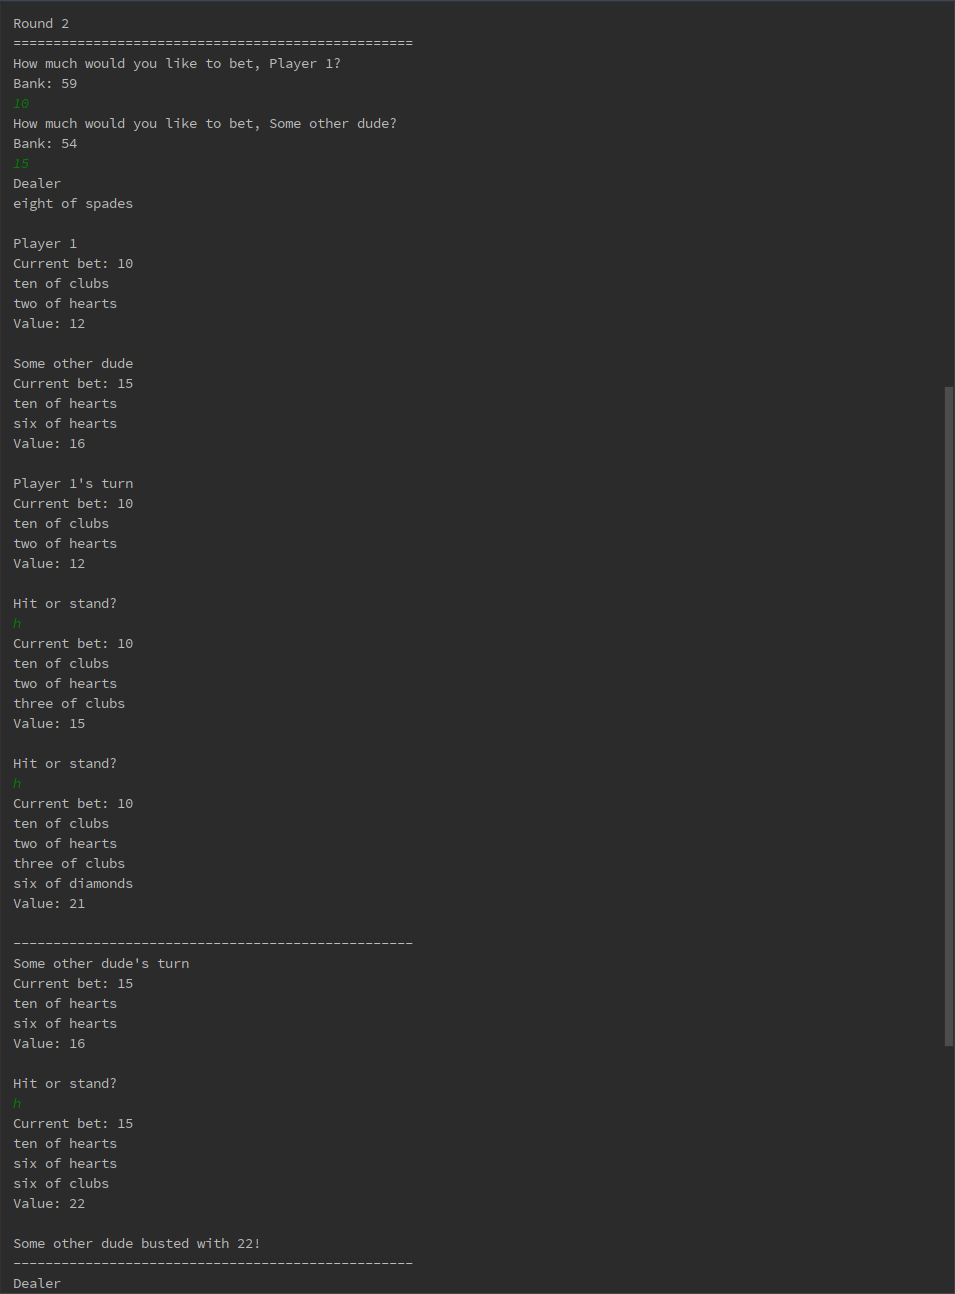
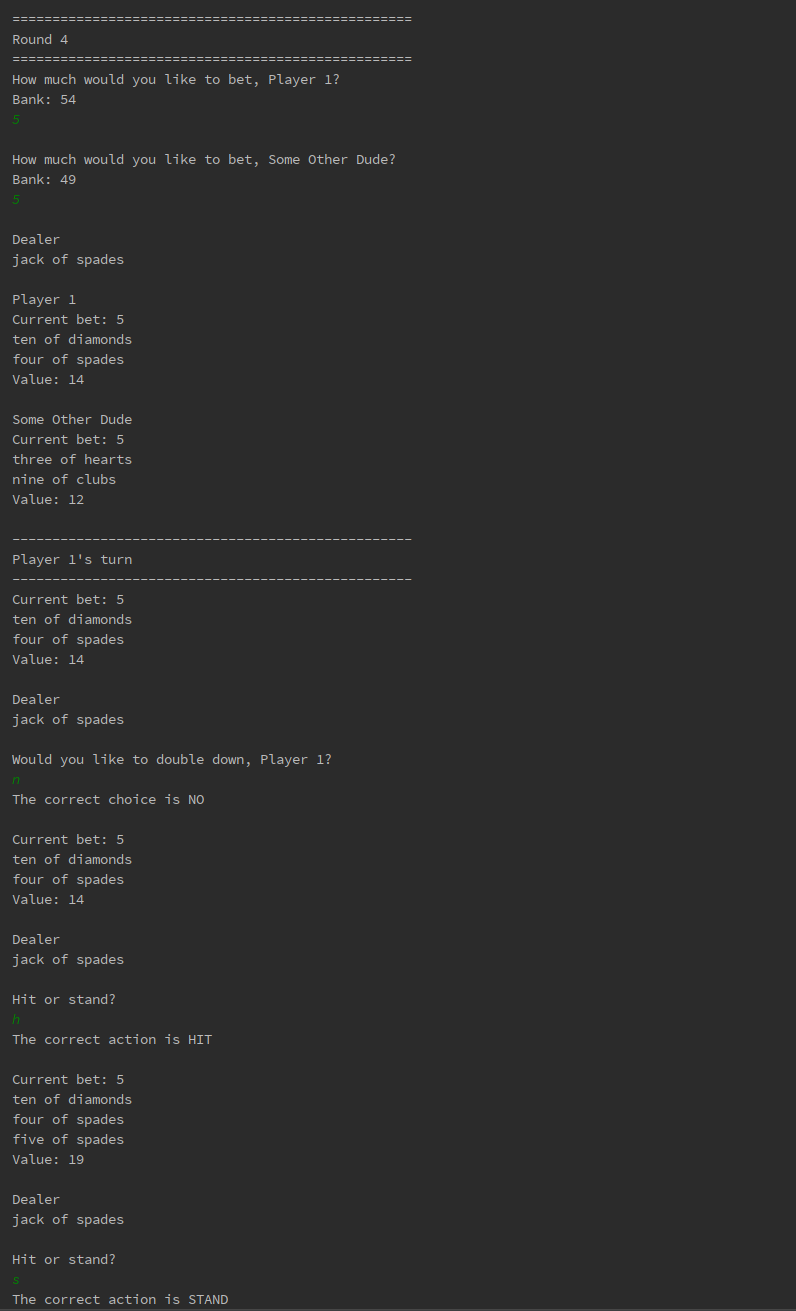
Simplify trainer; tidy up

diff --git a/src/main/java/com/refinery408/blackjack/Game.java b/src/main/java/com/refinery408/blackjack/Game.java
@@ -30,6 +30,7 @@ public class Game {
 
     private void nextRound() {
         this.round++;
+        log.info("==================================================");
         log.info("Round " + this.round);
         log.info("==================================================");
         this.checkShuffle();
@@ -43,6 +44,7 @@ public class Game {
             return;
         }
         this.checkPlayerBlackjack();
+        log.info("--------------------------------------------------");
         this.players
                 .stream()
                 .filter(Player::isActive)
@@ -151,6 +153,8 @@ public class Game {
 
     private void playHand(Player p, Hand h) {
         h.printHand();
+        this.dealer.printDealer();
+
         if (h.isBust()) {
             log.info(String.format("%s busted with %d!", p.getName(), h.lowValue()));
             h.setActive(false);
@@ -164,7 +168,7 @@ public class Game {
             this.handleSplitAce(p, h);
             return;
         }
-        if (h.canSplit() && p.getMoney() >= h.getCurrentBet()) {
+        if (h.canSplit(p.getMoney())) {
             if (this.split(p, h)) {
                 return;
             }
@@ -172,7 +176,7 @@ public class Game {
         boolean hit = p.getDecisionHitOrStand();
 
         if (this.enableTrainer) {
-            log.info("The correct action is " + Trainer.getBestAction(h, this.dealer.getHand()).name());
+            log.info("The correct action is {}\n", Trainer.getBestAction(h, this.dealer.getHand()).name());
         }
 
         if (hit) {
@@ -184,6 +188,8 @@ public class Game {
     private void handleSplitAce(Player p, Hand h) {
         h.addCard(this.pack.drawCard());
         h.printHand();
+        this.dealer.printDealer();
+
         if (h.isBlackjack()) {
             log.info("Mini blackjack from split ace!");
             this.payPlayer(p, h.getCurrentBet() * 2);
@@ -213,7 +219,7 @@ public class Game {
             return false;
         }
         if (this.enableTrainer) {
-            log.info("The correct action is " + Trainer.getBestAction(h, this.dealer.getHand()).name());
+            log.info("The correct action is {}\n", Trainer.getBestAction(h, this.dealer.getHand()).name());
         }
 
         Hand newHand = new Hand();
@@ -229,6 +235,8 @@ public class Game {
 
     private boolean doubleDown(Player p) {
         p.getHand(0).printHand();
+        this.dealer.printDealer();
+
         log.info("Would you like to double down, " + p.getName() + "?");
         boolean yes = p.getDecisionYesOrNo();
 

diff --git a/src/main/java/com/refinery408/blackjack/Trainer.java b/src/main/java/com/refinery408/blackjack/Trainer.java
@@ -155,11 +155,7 @@ public class Trainer {
                     case FOUR:
                     case FIVE:
                     case SIX:
-                        if (playerHand.canDoubleDown()) {
-                            return Action.DOUBLE_DOWN;
-                        } else {
-                            return Action.HIT;
-                        }
+                        return Action.DOUBLE_DOWN;
                     default:
                         return Action.HIT;
                 }
@@ -173,11 +169,7 @@ public class Trainer {
                     case SEVEN:
                     case EIGHT:
                     case NINE:
-                        if (playerHand.canDoubleDown()) {
-                            return Action.DOUBLE_DOWN;
-                        } else {
-                            return Action.HIT;
-                        }
+                        return Action.DOUBLE_DOWN;
                     default:
                         return Action.HIT;
                 }
@@ -186,11 +178,7 @@ public class Trainer {
                     case ACE:
                         return Action.HIT;
                     default:
-                        if (playerHand.canDoubleDown()) {
-                            return Action.DOUBLE_DOWN;
-                        } else {
-                            return Action.HIT;
-                        }
+                        return Action.DOUBLE_DOWN;
                 }
             case 12:
                 switch (dealerHand.getCard(0).getRank()) {

diff --git a/src/main/java/com/refinery408/blackjack/Hand.java b/src/main/java/com/refinery408/blackjack/Hand.java
@@ -132,8 +132,8 @@ public class Hand {
         }
     }
 
-    protected boolean canSplit() {
-        if (this.cards.size() != 2) {
+    protected boolean canSplit(int playerMoney) {
+        if (this.cards.size() != 2 || playerMoney < this.currentBet) {
             return false;
         }
         return this.cards.get(0).getRank() == this.cards.get(1).getRank();
@@ -152,8 +152,8 @@ public class Hand {
         return this.cards.size();
     }
 
-    protected boolean canDoubleDown() {
-        return this.size() == 2;
+    protected boolean canDoubleDown(int playerMoney) {
+        return playerMoney >= this.currentBet && this.size() == 2;
     }
 
     protected boolean hasAceAndAnother() {

diff --git a/src/main/java/com/refinery408/blackjack/Player.java b/src/main/java/com/refinery408/blackjack/Player.java
@@ -192,10 +192,6 @@ public class Player {
 
     protected boolean canDoubleDown() {
         Hand latestHand = this.getHand(this.getHands().size() - 1);
-        if (latestHand.currentBet > this.money) {
-            return false;
-        }
-        return latestHand.canDoubleDown();
-        //return this.getHands().size() == 1 && this.getHand(0).size() == 2;
+        return latestHand.canDoubleDown(this.money);
     }
 }
